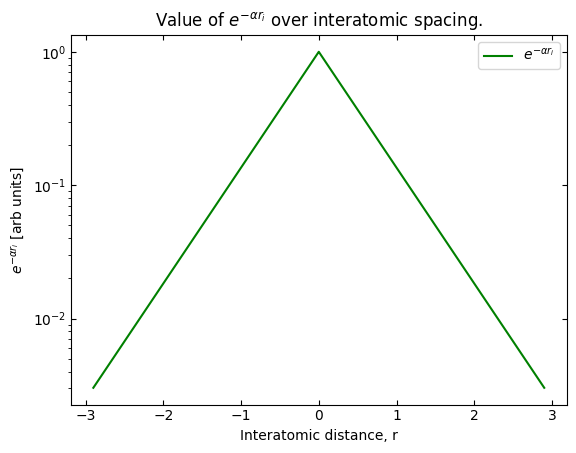
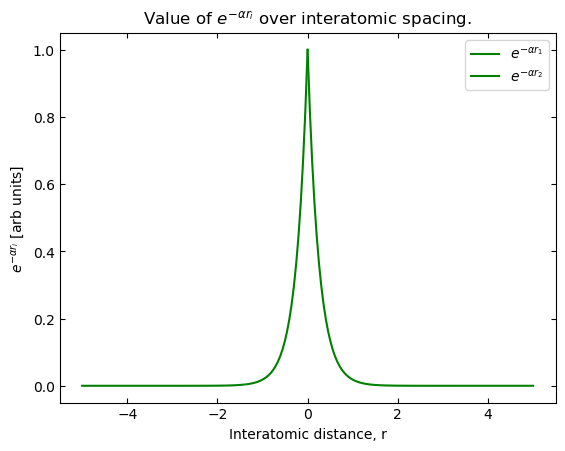
fixed plt

diff --git a/Programcode/examplefunction.cpp b/Programcode/examplefunction.cpp
@@ -26,8 +26,8 @@ double func_polar_laguerre(double r1, double t1, double p1, double r2, double t2
 int main()
 {
 
-     int N = 27; //odd in order to find the roots
-     double a = -2.90, b = 2.90;
+     int N = 10; //odd in order to find the roots
+     double a = -4.0, b = 4.0;
      double alf = 1.0;
 
 
@@ -51,6 +51,9 @@ int main()
 
 
     gauleg(-2.90 , 2.90, x, w, N);
+    gauss_laguerre(xgl,wgl, N, alf);
+    gauleg(0,M_PI,t,wg_t,N);
+    gauleg(0,2*M_PI, p,wg_p, N);
 
 //Legandre-loop:
     double int_gauss = 0.;
@@ -60,14 +63,12 @@ int main()
     for (int l = 0;l<N;l++){
     for (int m = 0;m<N;m++){
     for (int n = 0;n<N;n++){
+
       int_gauss += w[i]*w[j]*w[k]*w[l]*w[m]*w[n]
                    *int_function(x[i],x[j],x[k],x[l],x[m],x[n]);
 
       }}}}}} //end Legandre
 
-    gauss_laguerre(xgl,wgl, N, alf);
-    gauleg(0,M_PI,t,wg_t,N);
-    gauleg(0,2*M_PI, p,wg_p, N);
 
 //Gauss-Laguerre method
     double int_gausslag = 0.;
@@ -77,6 +78,7 @@ int main()
     for (int l = 0;l < N;l++){
     for (int m = 0;m < N;m++){
     for (int n = 0;n < N;n++){
+      //  cout <<"laguerre"<<func_polar_laguerre(xgl[i],xgl[j],t[k],t[l],p[m],p[n])<< endl;
     int_gausslag += wgl[i]*wgl[j]*wg_t[k]*wg_t[l]*wg_p[m]*wg_p[n]
                   *func_polar_laguerre(xgl[i],xgl[j],t[k],t[l],p[m],p[n]);
     }}}}}} //end Laguerre

diff --git a/Programcode/Plot_expfunc.py b/Programcode/Plot_expfunc.py
@@ -1,26 +1,25 @@
+""
 import matplotlib.pyplot as plt
-import numpy as np
-import sys
-from matplotlib.patches import Polygon
+from numpy import *
+#import sys
+#from matplotlib.patches import Polygon
 
 #Making data
-n = 100000
-r = np.linspace(-2.9, 2.9, n)
+r1 = linspace(0, 5, 100)
+r2 = linspace(-5, 0, 100)
 
-y = np.exp(-2*abs(r))
+y1 = exp(-4*(r1))
+y2 = exp(4*(r2))
 
-#Summing all the values
-sum = np.trapz(y, dx = 1/n)
-print("sum is: ", sum)
 
 #Plotting read data
 
-plt.plot(r,y, label = r"$e^{-\alpha r_i}$", color = 'g')
+plt.plot(r1,y1, label = r"$e^{-\alpha r_1}$", color = 'g')
+plt.plot(r2,y2, label = r"$e^{-\alpha r_2}$", color = 'g')
 plt.ylabel(r"$e^{-\alpha r_i}$ [arb units]")
 plt.xlabel("Interatomic distance, r")
 plt.tick_params(direction='in', top = 'true', right = 'true')
 plt.title(r"Value of $e^{-\alpha r_i}$ over interatomic spacing.")
-plt.yscale('log')
 plt.legend()
 
 plt.savefig("expfunc_plot.png", bbox_inches='tight')
